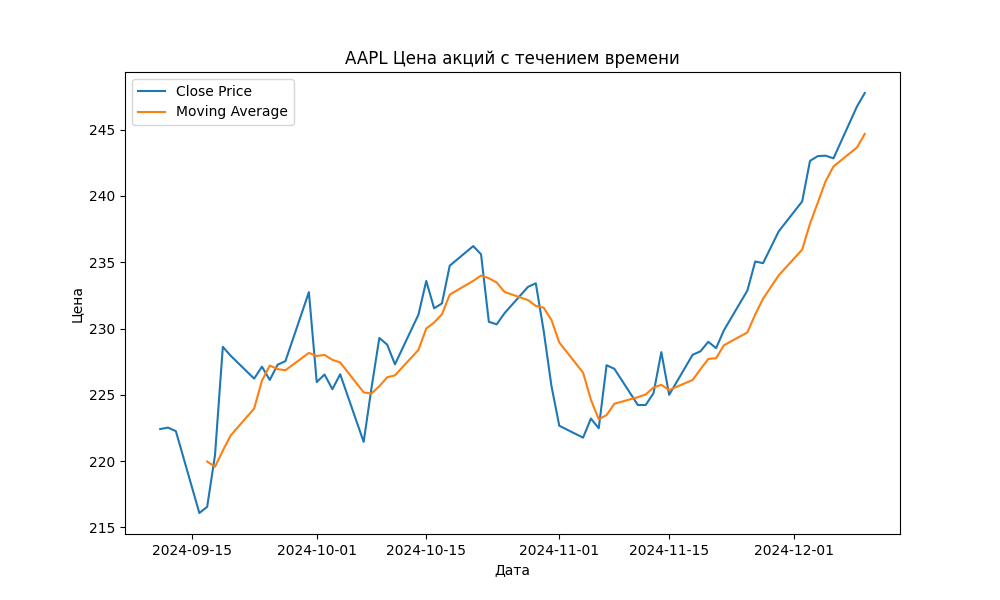
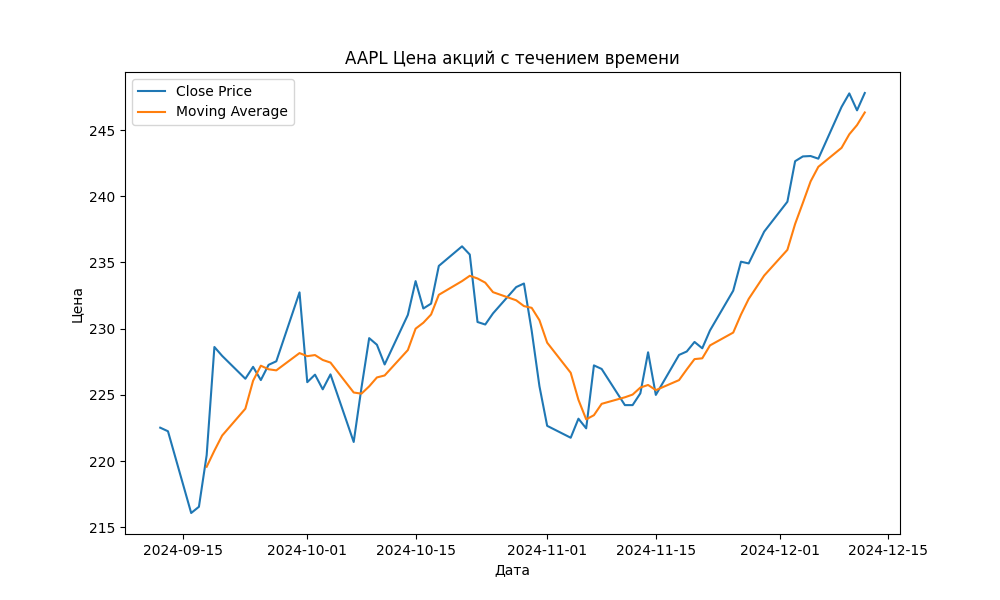
Вывод средней цены за период Уведомляет пользователя, если цена акций колебалась более чем на % за период. Выгружает данные в файл CSV Расчет и визуализация RSI, MACD Возможность загрузки данных за произвольный период по диапазону дат
В.5

diff --git a/main.py b/main.py
@@ -3,16 +3,34 @@ import data_plotting as dplt
 
 
 def main():
+    # Запрос параметров от пользователя
     print("Добро пожаловать в инструмент получения и построения графиков биржевых данных.")
     print("Вот несколько примеров биржевых тикеров, которые вы можете рассмотреть: AAPL (Apple Inc), GOOGL (Alphabet Inc), MSFT (Microsoft Corporation), AMZN (Amazon.com Inc), TSLA (Tesla Inc).")
     print("Общие периоды времени для данных о запасах включают: 1д, 5д, 1мес, 3мес, 6мес, 1г, 2г, 5г, 10л, с начала года, макс.")
 
     ticker = input("Введите тикер акции (например, «AAPL» для Apple Inc):»")
-    period = input("Введите период для данных (например, '1mo' для одного месяца): ")
+
     threshold = float(input("Введите порог колебаний в процентах (например, 5): ").strip())
 
-    # Fetch stock data
-    stock_data = dd.fetch_stock_data(ticker, period)
+    print("\nУкажите временной период:")
+    print("1. Предустановленный период (например, '1mo', '3mo', '1y').")
+    print("2. Задать конкретные даты начала и окончания.")
+
+    choice = input("Выберите 1 или 2: ").strip()
+    start_date, end_date, period = None, None, None
+
+    if choice == '2':
+        start_date = input("Введите дату начала анализа (в формате 'YYYY-MM-DD'): ").strip()
+        end_date = input("Введите дату окончания анализа (в формате 'YYYY-MM-DD'): ").strip()
+    else:
+        period = input("Введите предустановленный период (например, '1mo', '3mo', '1y'): ").strip()
+
+    # Загрузка данных
+    try:
+        stock_data = dd.fetch_stock_data(ticker, start_date=start_date, end_date=end_date, period=period)
+    except ValueError as e:
+        print(f"Ошибка: {e}")
+        return
 
     # Add moving average to the data
     stock_data = dd.add_moving_average(stock_data)

diff --git a/data_download.py b/data_download.py
@@ -2,12 +2,26 @@ import yfinance as yf
 import pandas as pd
 
 
-def fetch_stock_data(ticker, period='1mo'):
+def fetch_stock_data(ticker, start_date=None, end_date=None, period='1mo'):
     """
-    Загружает данные о ценах акций за заданный период.
+    Загружает данные акций за указанный период или между заданными датами.
+
+    :param ticker: Тикер акций
+    :param start_date: Дата начала анализа (формат 'YYYY-MM-DD')
+    :param end_date: Дата окончания анализа (формат 'YYYY-MM-DD')
+    :param period: Предустановленный период (например, '1mo')
+    :return: DataFrame с историческими данными
     """
     stock = yf.Ticker(ticker)
-    data = stock.history(period=period)
+
+    if start_date and end_date:
+        data = stock.history(start=start_date, end=end_date)
+    else:
+        data = stock.history(period=period)
+
+    if data.empty:
+        raise ValueError("Не удалось загрузить данные. Проверьте параметры.")
+
     return data
 
 

diff --git a/README.md b/README.md
@@ -28,7 +28,7 @@
 
 1. data_download.py:
 
-- fetch_stock_data(ticker, period): Получает исторические данные об акциях для указанного тикера и временного периода. Возвращает DataFrame с данными.
+- fetch_stock_data(ticker, start_date=start_date, end_date=end_date, period=period): Получает исторические данные об акциях для указанного тикера и временного периода. Возвращает DataFrame с данными.
 
 - add_moving_average(data, window_size): Добавляет в DataFrame колонку со скользящим средним, рассчитанным на основе цен закрытия.
 
@@ -62,7 +62,7 @@
 
 2. Введите интересующий вас тикер акции (например, 'AAPL' для Apple Inc).
 
-3. Введите желаемый временной период для анализа (например, '1mo' для данных за один месяц).
+3. Введите желаемый временной период для анализа (например, '1mo' для данных за один месяц или диапазон дат).
 
 4. Введите порог колебаний в процентах (например, 5).
 
